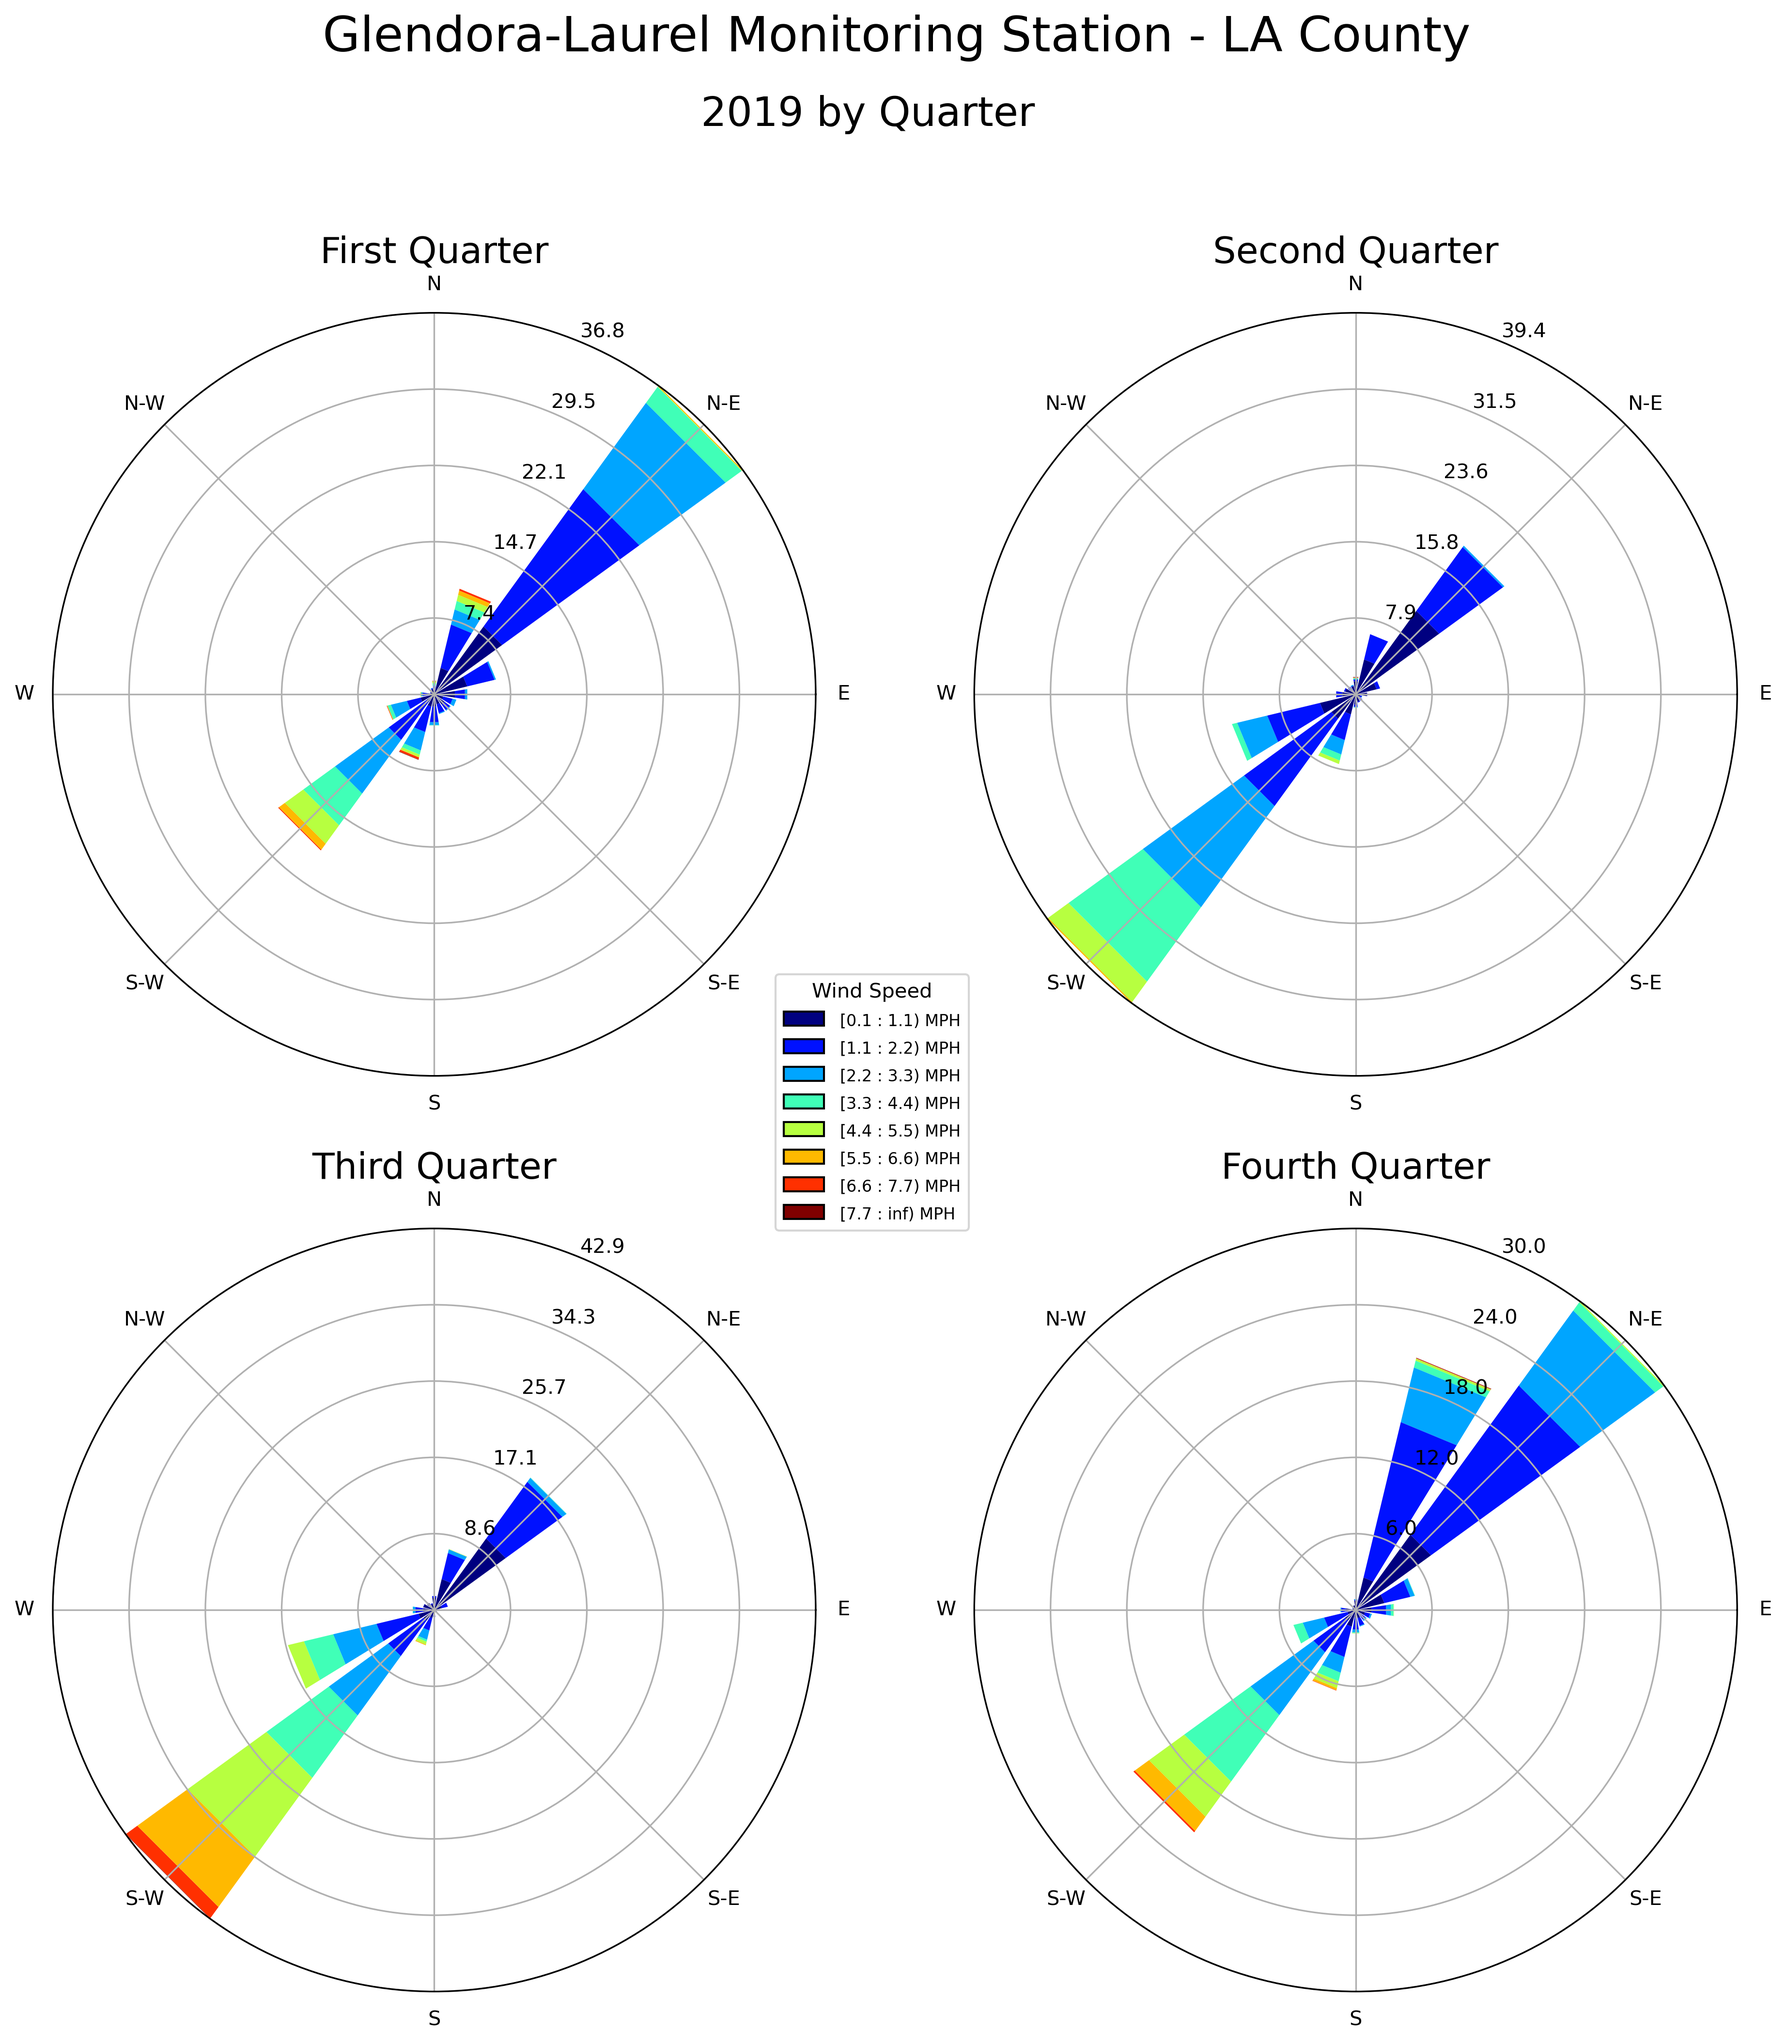
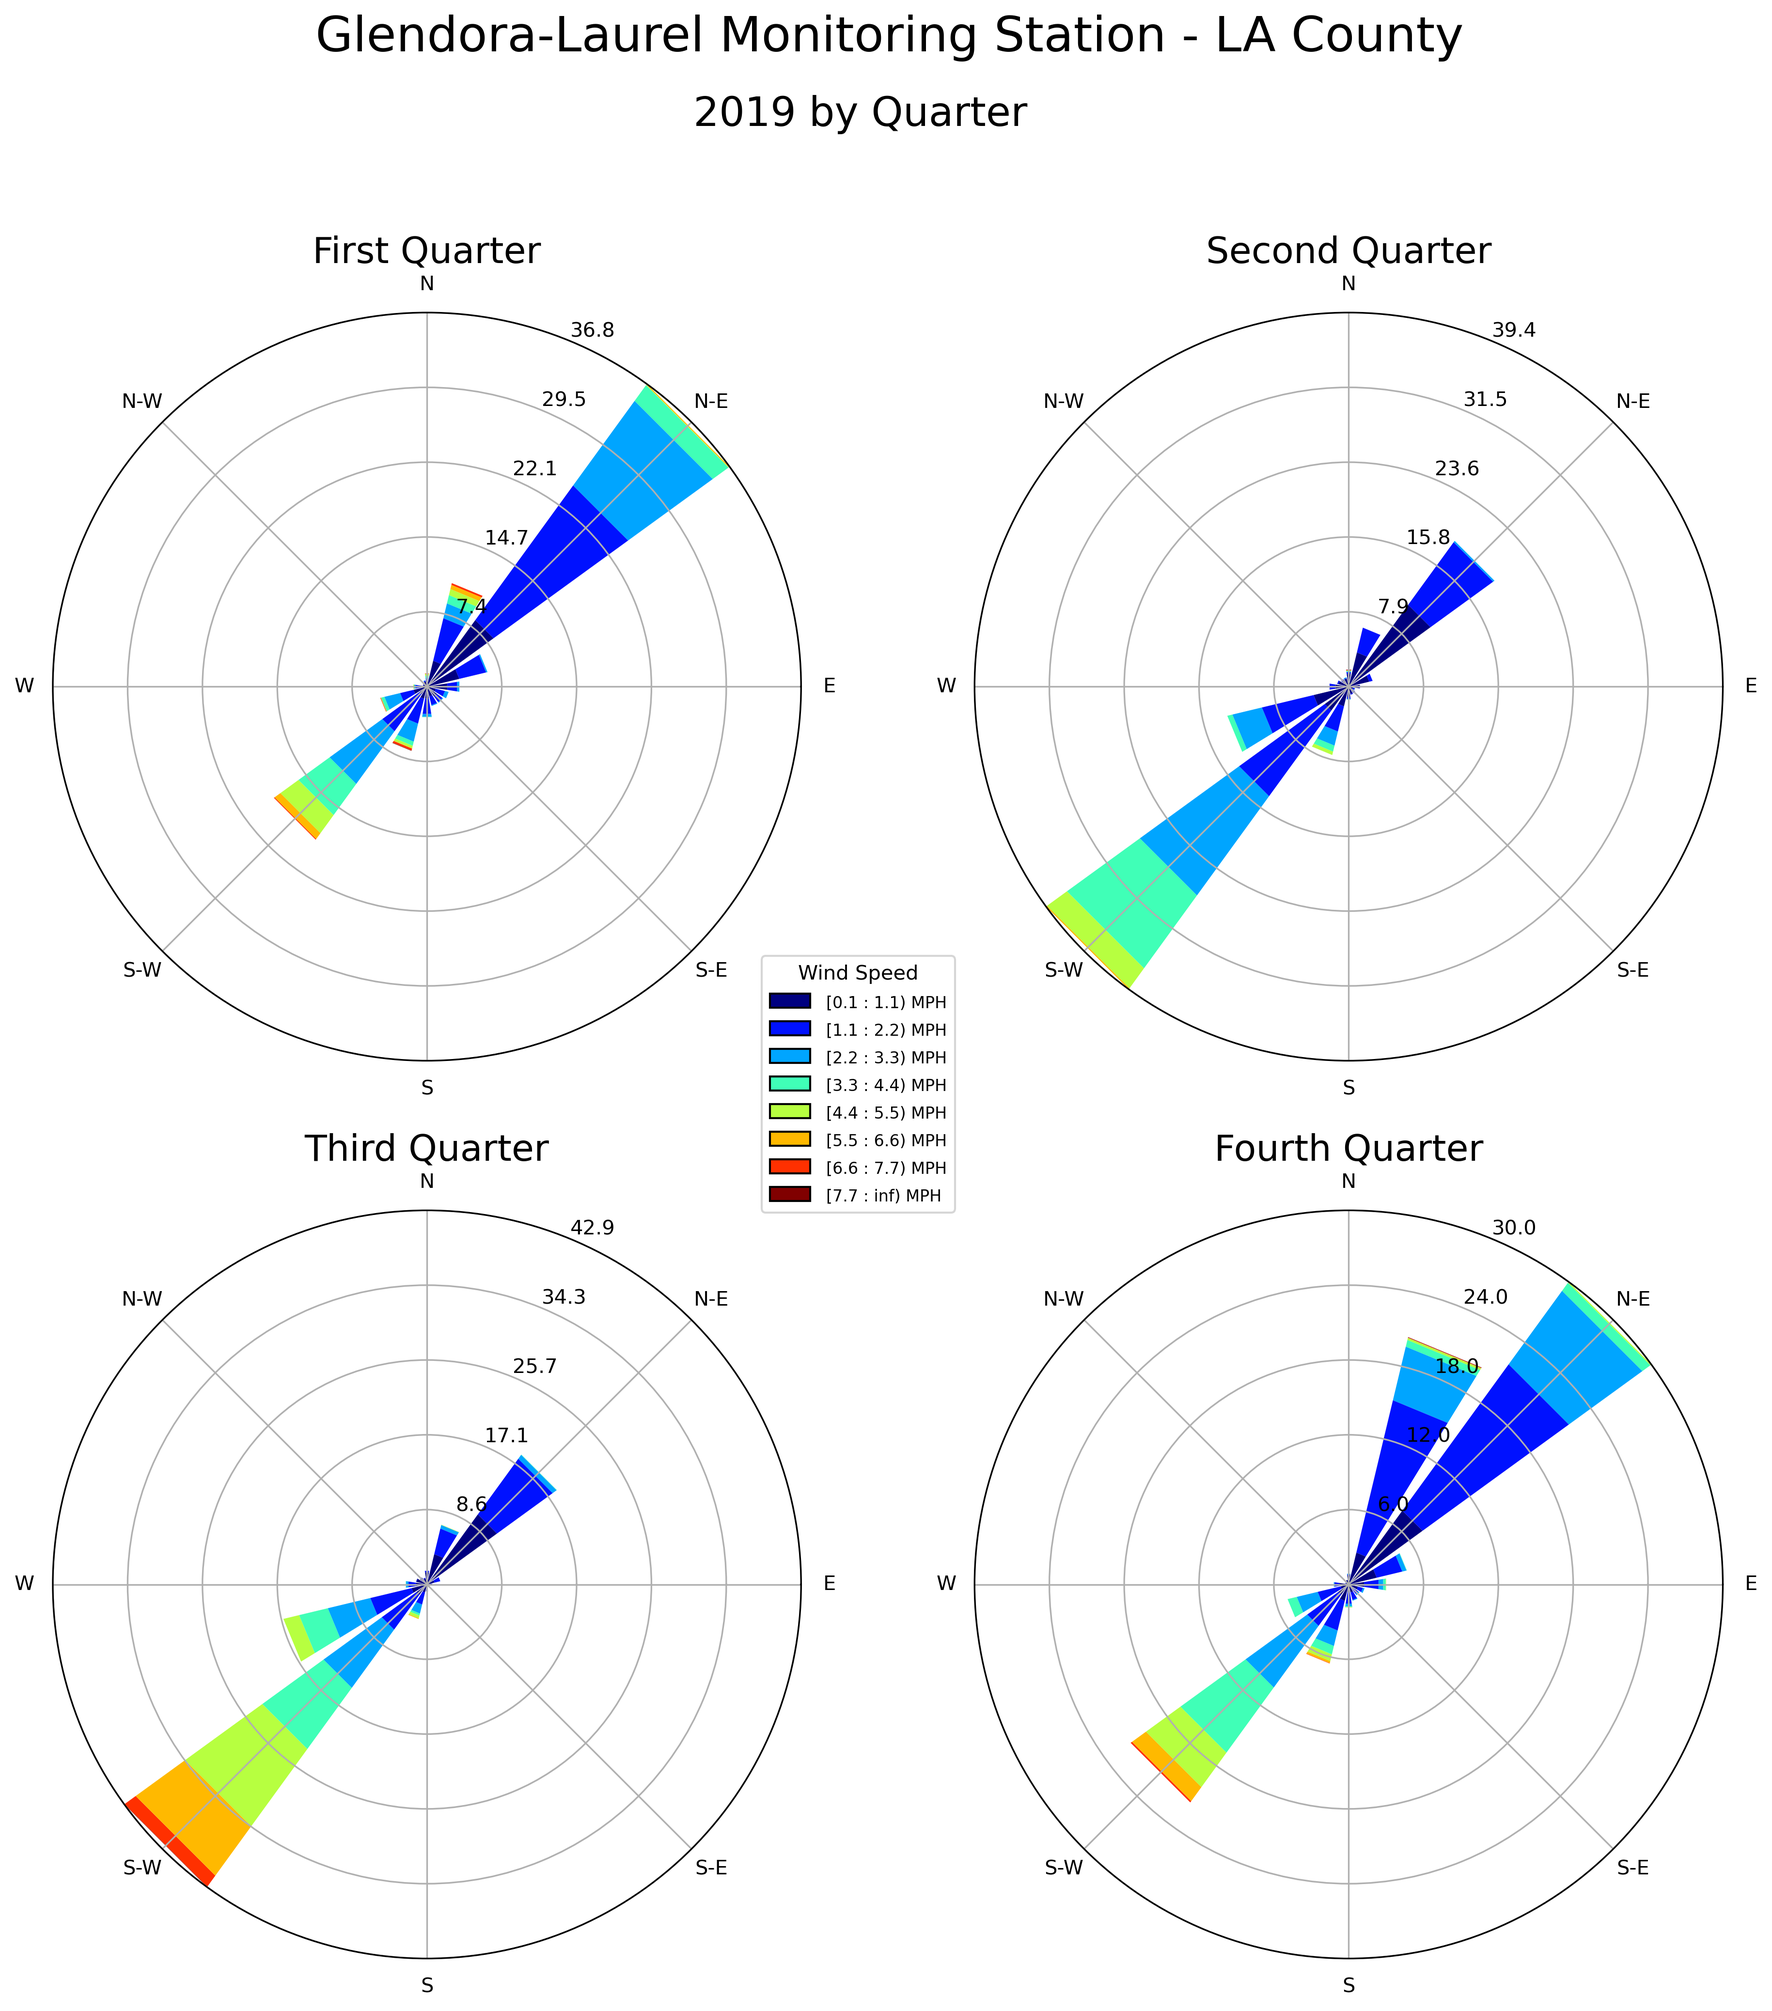
Add data

diff --git a/Windroses.py b/Windroses.py
@@ -13,29 +13,27 @@ import windrose
 from matplotlib import pyplot as plt
 import matplotlib.cm as cm
 import numpy as np
-# Create wind speed and direction variables
+
+
+# Create wind roses for Glendora-Laurel Monitoring Station
 
 df_2849_wind = pd.read_csv(r'//Users/robertvanderweele/git/Air_Quality-Final_Project/Cleaned_data/Site_2849_Wind_dataset.csv')
 df_2849_wind.drop(df_2849_wind.columns[[0]], axis=1, inplace=True)
 df_2849_wind["dateC"] = pd.to_datetime(df_2849_wind["dateC"])
 df_2849_wind = df_2849_wind.sort_values(by=['dateC'])
 
-#df['Date1'] = pd.to_datetime(df[['date','start_hour']])
-#df = txt_df.drop(["year", "month", "day", "hour", "minute"], axis=1)
-#df['DateC'] = txt_df['Date']
-#df['DateC'] = pd.to_timedelta(txt_df.DateC).dt.total_seconds().astype(int)
-#df.set_index("Date", inplace = True) 
 
 df_2849_wind['wd'] = df_2849_wind.wd.astype(float)
 df_2849_wind['ws'] = df_2849_wind.ws.astype(float)
 ws = df_2849_wind["ws"] 
 wd = df_2849_wind["wd"]
 
+
+# seperate into quarters by year
 mask_1_2019 = (df_2849_wind['dateC'] > '01-01-2019') & (df_2849_wind['dateC'] <= '03-31-2019')
 mask_2_2019 = (df_2849_wind['dateC'] > '04-01-2019') & (df_2849_wind['dateC'] <= '06-30-2019')
 mask_3_2019 = (df_2849_wind['dateC'] > '06-01-2019') & (df_2849_wind['dateC'] <= '08-30-2019')
 mask_4_2019 = (df_2849_wind['dateC'] > '09-01-2019') & (df_2849_wind['dateC'] <= '12-31-2019')
-
 
 
 qrt1_2849_2019 = df_2849_wind.loc[mask_1_2019]
@@ -44,32 +42,37 @@ qrt3_2849_2019 = df_2849_wind.loc[mask_3_2019]
 qrt4_2849_2019 = df_2849_wind.loc[mask_4_2019]
 
 
+mask_1_2020 = (df_2849_wind['dateC'] > '01-01-2020') & (df_2849_wind['dateC'] <= '03-31-2020')
+mask_2_2020 = (df_2849_wind['dateC'] > '04-01-2020') & (df_2849_wind['dateC'] <= '06-30-2020')
+mask_3_2020 = (df_2849_wind['dateC'] > '06-01-2020') & (df_2849_wind['dateC'] <= '08-30-2020')
+mask_4_2020 = (df_2849_wind['dateC'] > '09-01-2020') & (df_2849_wind['dateC'] <= '12-31-2020')
+
+qrt1_2849_2020 = df_2849_wind.loc[mask_1_2020]
+qrt2_2849_2020 = df_2849_wind.loc[mask_2_2020]
+qrt3_2849_2020 = df_2849_wind.loc[mask_3_2020]
+qrt4_2849_2020 = df_2849_wind.loc[mask_4_2020]
+
+# 2019 plots
 fig = plt.figure(figsize=(15,15))
 fig.text(0.25, 1, 'Glendora-Laurel Monitoring Station - LA County', fontsize=24)
 fig.suptitle('2019 by Quarter', fontsize=20)
 
 #rect=[4,4,4,4] 
 ax1 = fig.add_subplot(221, projection="windrose")
-#new_labels = ["90°", "45°", "0", "315°", "270°", "225°", "180°", "135°"]
-#ax1 = WindroseAxes.from_ax(theta_labels=new_labels)
 ax1.set_title('First Quarter', fontsize=18)
 ax1.bar(qrt1_2849_2019['wd'], qrt1_2849_2019['ws'], normed=True, bins=8) 
 ax1.set_radii_angle()
 ax1.set_legend(bbox_to_anchor=(0.95 , -0.2), title="Wind Speed", units="MPH")
-
 
 ax2 = fig.add_subplot(222, projection="windrose")
 ax2.set_title('Second Quarter', fontsize=18)
 ax2.bar(qrt2_2849_2019['wd'], qrt2_2849_2019['ws'],normed=True, bins=8) 
 ax2.set_radii_angle()
 
-
-
 ax3 = fig.add_subplot(223, projection="windrose")
 ax3.set_title('Third Quarter', fontsize=18)
 ax3.bar(qrt3_2849_2019['wd'], qrt3_2849_2019['ws'],normed=True, bins=8) 
 ax3.set_radii_angle()
-
 
 ax4 = fig.add_subplot(224, projection="windrose")
 ax4.set_title('Fourth Quarter', fontsize=18)
@@ -78,4 +81,228 @@ ax4.set_radii_angle()
 #plt.show()
 plt.savefig('/Users/robertvanderweele/git/Air_Quality-Final_Project/Plots/Glendora-Laurel_2019_wind.png',dpi=300, bbox_inches = "tight")
 
+
+# 2020 plots
+fig = plt.figure(figsize=(15,15))
+fig.text(0.25, 1, 'Glendora-Laurel Monitoring Station - LA County', fontsize=24)
+fig.suptitle('2020 by Quarter', fontsize=20)
+
+#rect=[4,4,4,4] 
+ax1 = fig.add_subplot(221, projection="windrose")
+ax1.set_title('First Quarter', fontsize=18)
+ax1.bar(qrt1_2849_2020['wd'], qrt1_2849_2020['ws'], normed=True, bins=8) 
+ax1.set_radii_angle()
+ax1.set_legend(bbox_to_anchor=(0.95 , -0.2), title="Wind Speed", units="MPH")
+
+ax2 = fig.add_subplot(222, projection="windrose")
+ax2.set_title('Second Quarter', fontsize=18)
+ax2.bar(qrt2_2849_2020['wd'], qrt2_2849_2020['ws'],normed=True, bins=8) 
+ax2.set_radii_angle()
+
+ax3 = fig.add_subplot(223, projection="windrose")
+ax3.set_title('Third Quarter', fontsize=18)
+ax3.bar(qrt3_2849_2020['wd'], qrt3_2849_2020['ws'],normed=True, bins=8) 
+ax3.set_radii_angle()
+
+ax4 = fig.add_subplot(224, projection="windrose")
+ax4.set_title('Fourth Quarter', fontsize=18)
+ax4.bar(qrt4_2849_2020['wd'], qrt4_2849_2020['ws'],normed=True, bins=8) 
+ax4.set_radii_angle()
+#plt.show()
+plt.savefig('/Users/robertvanderweele/git/Air_Quality-Final_Project/Plots/Glendora-Laurel_2020_wind.png',dpi=300, bbox_inches = "tight")
+
+
+# Create wind roses for Sacramento-T Street
+
+df_3011_wind = pd.read_csv(r'//Users/robertvanderweele/git/Air_Quality-Final_Project/Cleaned_data/Site_3011_Wind_dataset.csv')
+df_3011_wind.drop(df_3011_wind.columns[[0]], axis=1, inplace=True)
+df_3011_wind["dateC"] = pd.to_datetime(df_3011_wind["dateC"])
+df_3011_wind = df_3011_wind.sort_values(by=['dateC'])
+
+
+df_3011_wind['wd'] = df_3011_wind.wd.astype(float)
+df_3011_wind['ws'] = df_3011_wind.ws.astype(float)
+ws = df_3011_wind["ws"] 
+wd = df_3011_wind["wd"]
+
+
+# seperate into quarters by year
+mask_1_2019 = (df_3011_wind['dateC'] > '01-01-2019') & (df_3011_wind['dateC'] <= '03-31-2019')
+mask_2_2019 = (df_3011_wind['dateC'] > '04-01-2019') & (df_3011_wind['dateC'] <= '06-30-2019')
+mask_3_2019 = (df_3011_wind['dateC'] > '06-01-2019') & (df_3011_wind['dateC'] <= '08-30-2019')
+mask_4_2019 = (df_3011_wind['dateC'] > '09-01-2019') & (df_3011_wind['dateC'] <= '12-31-2019')
+
+
+qrt1_3011_2019 = df_3011_wind.loc[mask_1_2019]
+qrt2_3011_2019 = df_3011_wind.loc[mask_2_2019]
+qrt3_3011_2019 = df_3011_wind.loc[mask_3_2019]
+qrt4_3011_2019 = df_3011_wind.loc[mask_4_2019]
+
+
+mask_1_2020 = (df_3011_wind['dateC'] > '01-01-2020') & (df_3011_wind['dateC'] <= '03-31-2020')
+mask_2_2020 = (df_3011_wind['dateC'] > '04-01-2020') & (df_3011_wind['dateC'] <= '06-30-2020')
+mask_3_2020 = (df_3011_wind['dateC'] > '06-01-2020') & (df_3011_wind['dateC'] <= '08-30-2020')
+mask_4_2020 = (df_3011_wind['dateC'] > '09-01-2020') & (df_3011_wind['dateC'] <= '12-31-2020')
+
+qrt1_3011_2020 = df_3011_wind.loc[mask_1_2020]
+qrt2_3011_2020 = df_3011_wind.loc[mask_2_2020]
+qrt3_3011_2020 = df_3011_wind.loc[mask_3_2020]
+qrt4_3011_2020 = df_3011_wind.loc[mask_4_2020]
+
+# 2019 plots
+fig = plt.figure(figsize=(15,15))
+fig.text(0.25, 1, 'Sacramento-T Street Monitoring Station - Sacramento County', fontsize=24)
+fig.suptitle('2019 by Quarter', fontsize=20)
+
+#rect=[4,4,4,4] 
+ax1 = fig.add_subplot(221, projection="windrose")
+ax1.set_title('First Quarter', fontsize=18)
+ax1.bar(qrt1_3011_2019['wd'], qrt1_3011_2019['ws'], normed=True, bins=8) 
+ax1.set_radii_angle()
+ax1.set_legend(bbox_to_anchor=(0.95 , -0.2), title="Wind Speed", units="MPH")
+
+ax2 = fig.add_subplot(222, projection="windrose")
+ax2.set_title('Second Quarter', fontsize=18)
+ax2.bar(qrt2_3011_2019['wd'], qrt2_3011_2019['ws'],normed=True, bins=8) 
+ax2.set_radii_angle()
+
+ax3 = fig.add_subplot(223, projection="windrose")
+ax3.set_title('Third Quarter', fontsize=18)
+ax3.bar(qrt3_3011_2019['wd'], qrt3_3011_2019['ws'],normed=True, bins=8) 
+ax3.set_radii_angle()
+
+ax4 = fig.add_subplot(224, projection="windrose")
+ax4.set_title('Fourth Quarter', fontsize=18)
+ax4.bar(qrt4_3011_2019['wd'], qrt4_3011_2019['ws'],normed=True, bins=8) 
+ax4.set_radii_angle()
+#plt.show()
+plt.savefig('/Users/robertvanderweele/git/Air_Quality-Final_Project/Plots/Sacramento-T_Street_2019_wind.png',dpi=300, bbox_inches = "tight")
+
+
+# 2020 plots
+fig = plt.figure(figsize=(15,15))
+fig.text(0.25, 1, 'Sacramento-T Street Monitoring Station - Sacramento County', fontsize=24)
+fig.suptitle('2020 by Quarter', fontsize=20)
+
+#rect=[4,4,4,4] 
+ax1 = fig.add_subplot(221, projection="windrose")
+ax1.set_title('First Quarter', fontsize=18)
+ax1.bar(qrt1_3011_2020['wd'], qrt1_3011_2020['ws'], normed=True, bins=8) 
+ax1.set_radii_angle()
+ax1.set_legend(bbox_to_anchor=(0.95 , -0.2), title="Wind Speed", units="MPH")
+
+ax2 = fig.add_subplot(222, projection="windrose")
+ax2.set_title('Second Quarter', fontsize=18)
+ax2.bar(qrt2_3011_2020['wd'], qrt2_3011_2020['ws'],normed=True, bins=8) 
+ax2.set_radii_angle()
+
+ax3 = fig.add_subplot(223, projection="windrose")
+ax3.set_title('Third Quarter', fontsize=18)
+ax3.bar(qrt3_3011_2020['wd'], qrt3_3011_2020['ws'],normed=True, bins=8) 
+ax3.set_radii_angle()
+
+ax4 = fig.add_subplot(224, projection="windrose")
+ax4.set_title('Fourth Quarter', fontsize=18)
+ax4.bar(qrt4_3011_2020['wd'], qrt4_3011_2020['ws'],normed=True, bins=8) 
+ax4.set_radii_angle()
+#plt.show()
+plt.savefig('/Users/robertvanderweele/git/Air_Quality-Final_Project/Plots/Sacramento-T_Street_2020_wind.png',dpi=300, bbox_inches = "tight")
+
+
+
+# Create wind roses for Lancaster-43301 Division Street
+
+df_3658_wind = pd.read_csv(r'//Users/robertvanderweele/git/Air_Quality-Final_Project/Cleaned_data/Site_3658_Wind_dataset.csv')
+df_3658_wind.drop(df_3658_wind.columns[[0]], axis=1, inplace=True)
+df_3658_wind["dateC"] = pd.to_datetime(df_3658_wind["dateC"])
+df_3658_wind = df_3658_wind.sort_values(by=['dateC'])
+
+
+df_3658_wind['wd'] = df_3658_wind.wd.astype(float)
+df_3658_wind['ws'] = df_3658_wind.ws.astype(float)
+ws = df_3658_wind["ws"] 
+wd = df_3658_wind["wd"]
+
+
+# seperate into quarters by year
+mask_1_2019 = (df_3658_wind['dateC'] > '01-01-2019') & (df_3658_wind['dateC'] <= '03-31-2019')
+mask_2_2019 = (df_3658_wind['dateC'] > '04-01-2019') & (df_3658_wind['dateC'] <= '06-30-2019')
+mask_3_2019 = (df_3658_wind['dateC'] > '06-01-2019') & (df_3658_wind['dateC'] <= '08-30-2019')
+mask_4_2019 = (df_3658_wind['dateC'] > '09-01-2019') & (df_3658_wind['dateC'] <= '12-31-2019')
+
+
+qrt1_3658_2019 = df_3658_wind.loc[mask_1_2019]
+qrt2_3658_2019 = df_3658_wind.loc[mask_2_2019]
+qrt3_3658_2019 = df_3658_wind.loc[mask_3_2019]
+qrt4_3658_2019 = df_3658_wind.loc[mask_4_2019]
+
+
+mask_1_2020 = (df_3658_wind['dateC'] > '01-01-2020') & (df_3658_wind['dateC'] <= '03-31-2020')
+mask_2_2020 = (df_3658_wind['dateC'] > '04-01-2020') & (df_3658_wind['dateC'] <= '06-30-2020')
+mask_3_2020 = (df_3658_wind['dateC'] > '06-01-2020') & (df_3658_wind['dateC'] <= '08-30-2020')
+mask_4_2020 = (df_3658_wind['dateC'] > '09-01-2020') & (df_3658_wind['dateC'] <= '12-31-2020')
+
+qrt1_3658_2020 = df_3658_wind.loc[mask_1_2020]
+qrt2_3658_2020 = df_3658_wind.loc[mask_2_2020]
+qrt3_3658_2020 = df_3658_wind.loc[mask_3_2020]
+qrt4_3658_2020 = df_3658_wind.loc[mask_4_2020]
+
+# 2019 plots
+fig = plt.figure(figsize=(15,15))
+fig.text(0.25, 1, 'Lancaster-43301 Division Street Monitoring Station - LA County', fontsize=24)
+fig.suptitle('2019 by Quarter', fontsize=20)
+
+#rect=[4,4,4,4] 
+ax1 = fig.add_subplot(221, projection="windrose")
+ax1.set_title('First Quarter', fontsize=18)
+ax1.bar(qrt1_3658_2019['wd'], qrt1_3658_2019['ws'], normed=True, bins=8) 
+ax1.set_radii_angle()
+ax1.set_legend(bbox_to_anchor=(0.95 , -0.2), title="Wind Speed", units="MPH")
+
+ax2 = fig.add_subplot(222, projection="windrose")
+ax2.set_title('Second Quarter', fontsize=18)
+ax2.bar(qrt2_3658_2019['wd'], qrt2_3658_2019['ws'],normed=True, bins=8) 
+ax2.set_radii_angle()
+
+ax3 = fig.add_subplot(223, projection="windrose")
+ax3.set_title('Third Quarter', fontsize=18)
+ax3.bar(qrt3_3658_2019['wd'], qrt3_3658_2019['ws'],normed=True, bins=8) 
+ax3.set_radii_angle()
+
+ax4 = fig.add_subplot(224, projection="windrose")
+ax4.set_title('Fourth Quarter', fontsize=18)
+ax4.bar(qrt4_3658_2019['wd'], qrt4_3658_2019['ws'],normed=True, bins=8) 
+ax4.set_radii_angle()
+#plt.show()
+plt.savefig('/Users/robertvanderweele/git/Air_Quality-Final_Project/Plots/Lancaster-43301_Division_Street_2019_wind.png',dpi=300, bbox_inches = "tight")
+
+
+# 2020 plots
+fig = plt.figure(figsize=(15,15))
+fig.text(0.25, 1, 'Lancaster-43301 Division Street Monitoring Station - LA County', fontsize=24)
+fig.suptitle('2020 by Quarter', fontsize=20)
+
+#rect=[4,4,4,4] 
+ax1 = fig.add_subplot(221, projection="windrose")
+ax1.set_title('First Quarter', fontsize=18)
+ax1.bar(qrt1_3658_2020['wd'], qrt1_3658_2020['ws'], normed=True, bins=8) 
+ax1.set_radii_angle()
+ax1.set_legend(bbox_to_anchor=(0.95 , -0.2), title="Wind Speed", units="MPH")
+
+ax2 = fig.add_subplot(222, projection="windrose")
+ax2.set_title('Second Quarter', fontsize=18)
+ax2.bar(qrt2_3658_2020['wd'], qrt2_3658_2020['ws'],normed=True, bins=8) 
+ax2.set_radii_angle()
+
+ax3 = fig.add_subplot(223, projection="windrose")
+ax3.set_title('Third Quarter', fontsize=18)
+ax3.bar(qrt3_3658_2020['wd'], qrt3_3658_2020['ws'],normed=True, bins=8) 
+ax3.set_radii_angle()
+
+ax4 = fig.add_subplot(224, projection="windrose")
+ax4.set_title('Fourth Quarter', fontsize=18)
+ax4.bar(qrt4_3658_2020['wd'], qrt4_3658_2020['ws'],normed=True, bins=8) 
+ax4.set_radii_angle()
+#plt.show()
+plt.savefig('/Users/robertvanderweele/git/Air_Quality-Final_Project/Plots/Lancaster-43301_Division_Street_2020_wind.png',dpi=300, bbox_inches = "tight")
 
